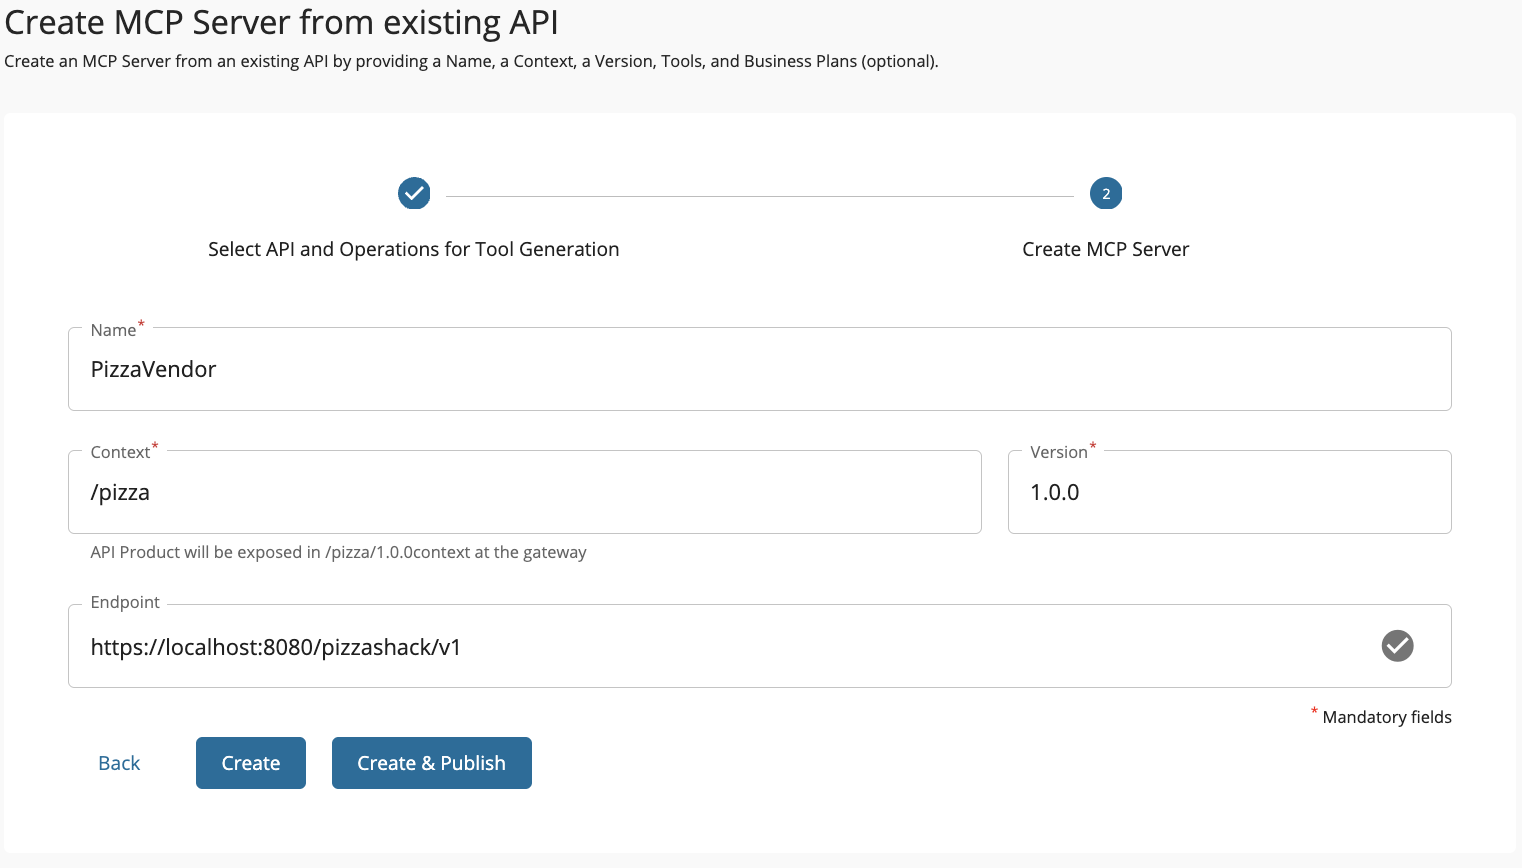
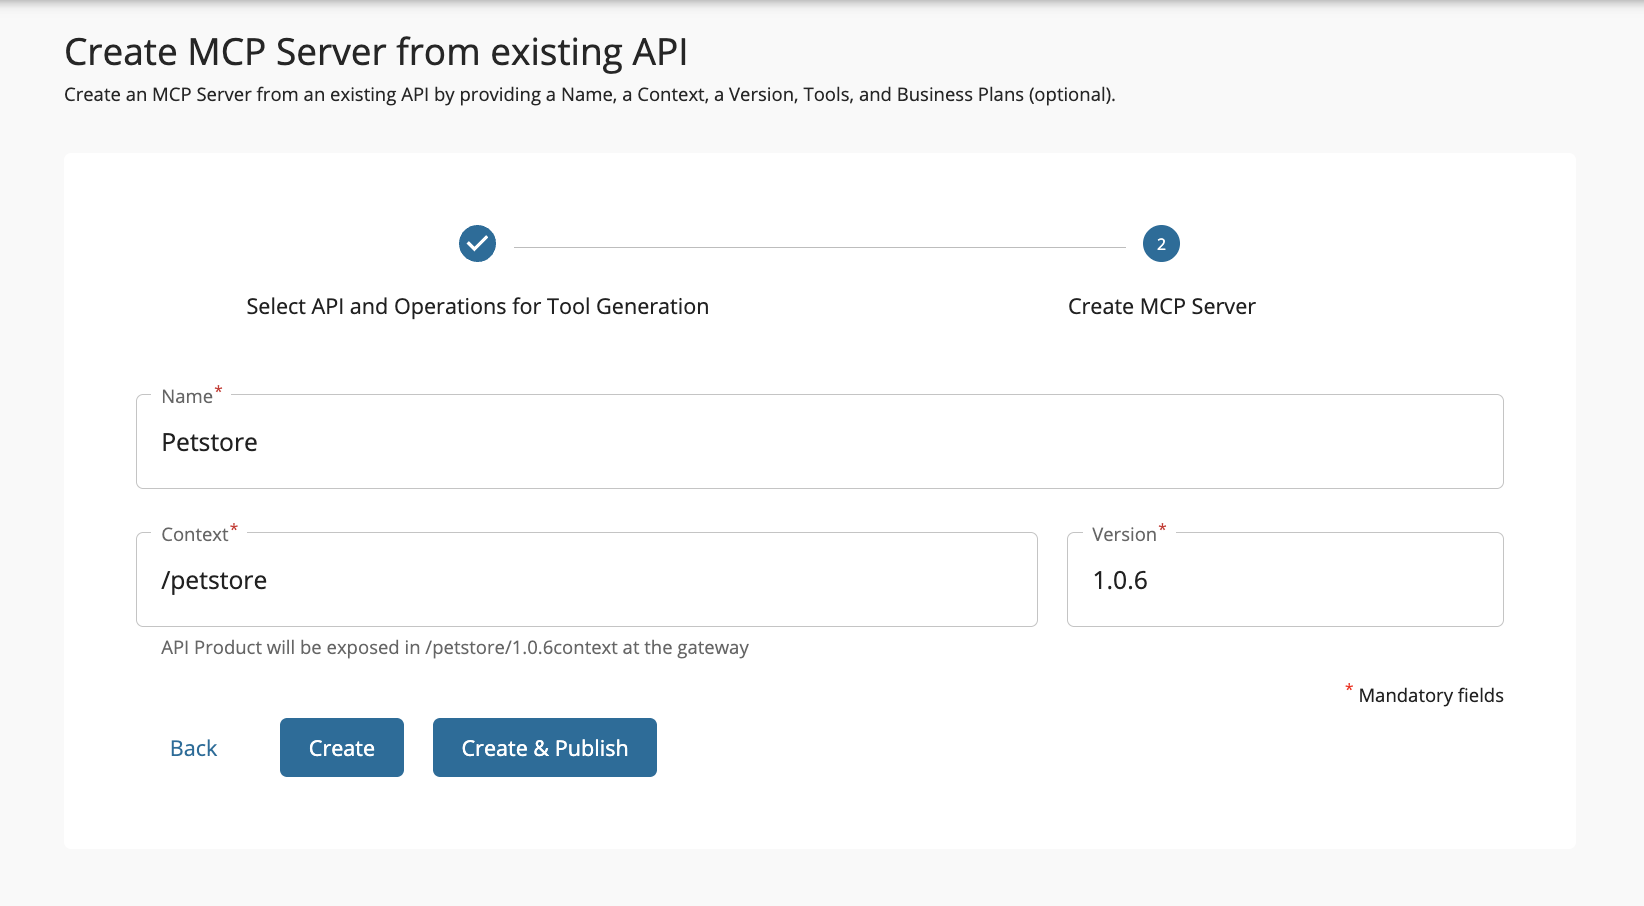
Add create mcp from proxy images

diff --git a/en/docs/mcp/create-from-mcp-server.md b/en/docs/mcp/create-from-mcp-server.md
@@ -36,7 +36,7 @@ In the Publisher Portal, you will:
       | Version  | 1.0.0                                                                      |
       | Endpoint | `https://db720294-98fd-40f4-85a1-cc6a3b65bc9a-prod.e1-us-east-azure.choreoapis.dev/godzilla/mcp-everything-server/v1.0` |
 
-      [![MCP Server Proxy Create]({{base_path}}/assets/img/mcp/create-mcp-server-proxy-create.png){: style="width:90%"}]({{base_path}}/assets/img/mcp/create-mcp-servers-proxy-create.png)
+      [![MCP Server Proxy Create]({{base_path}}/assets/img/mcp/create-mcp-servers-proxy-create.png){: style="width:90%"}]({{base_path}}/assets/img/mcp/create-mcp-servers-proxy-create.png)
 
 
 ### Next Step → Update and Deploy Your MCP Server

diff --git a/en/docs/mcp/create-from-api.md b/en/docs/mcp/create-from-api.md
@@ -37,7 +37,6 @@ This approach is faster when:
       | Name     | Petstore                                                                   |
       | Context  | /petstore                                                                  |
       | Version  | 1.0.6                                                                      |
-      | Endpoint | [https://petstore3.swagger.io/api/v3](https://petstore3.swagger.io/api/v3) |
 
       [![MCP Server from API Create]({{base_path}}/assets/img/mcp/create-mcp-servers-from-api-create.png){: style="width:90%"}]({{base_path}}/assets/img/mcp/create-mcp-servers-from-api-create.png)
 
